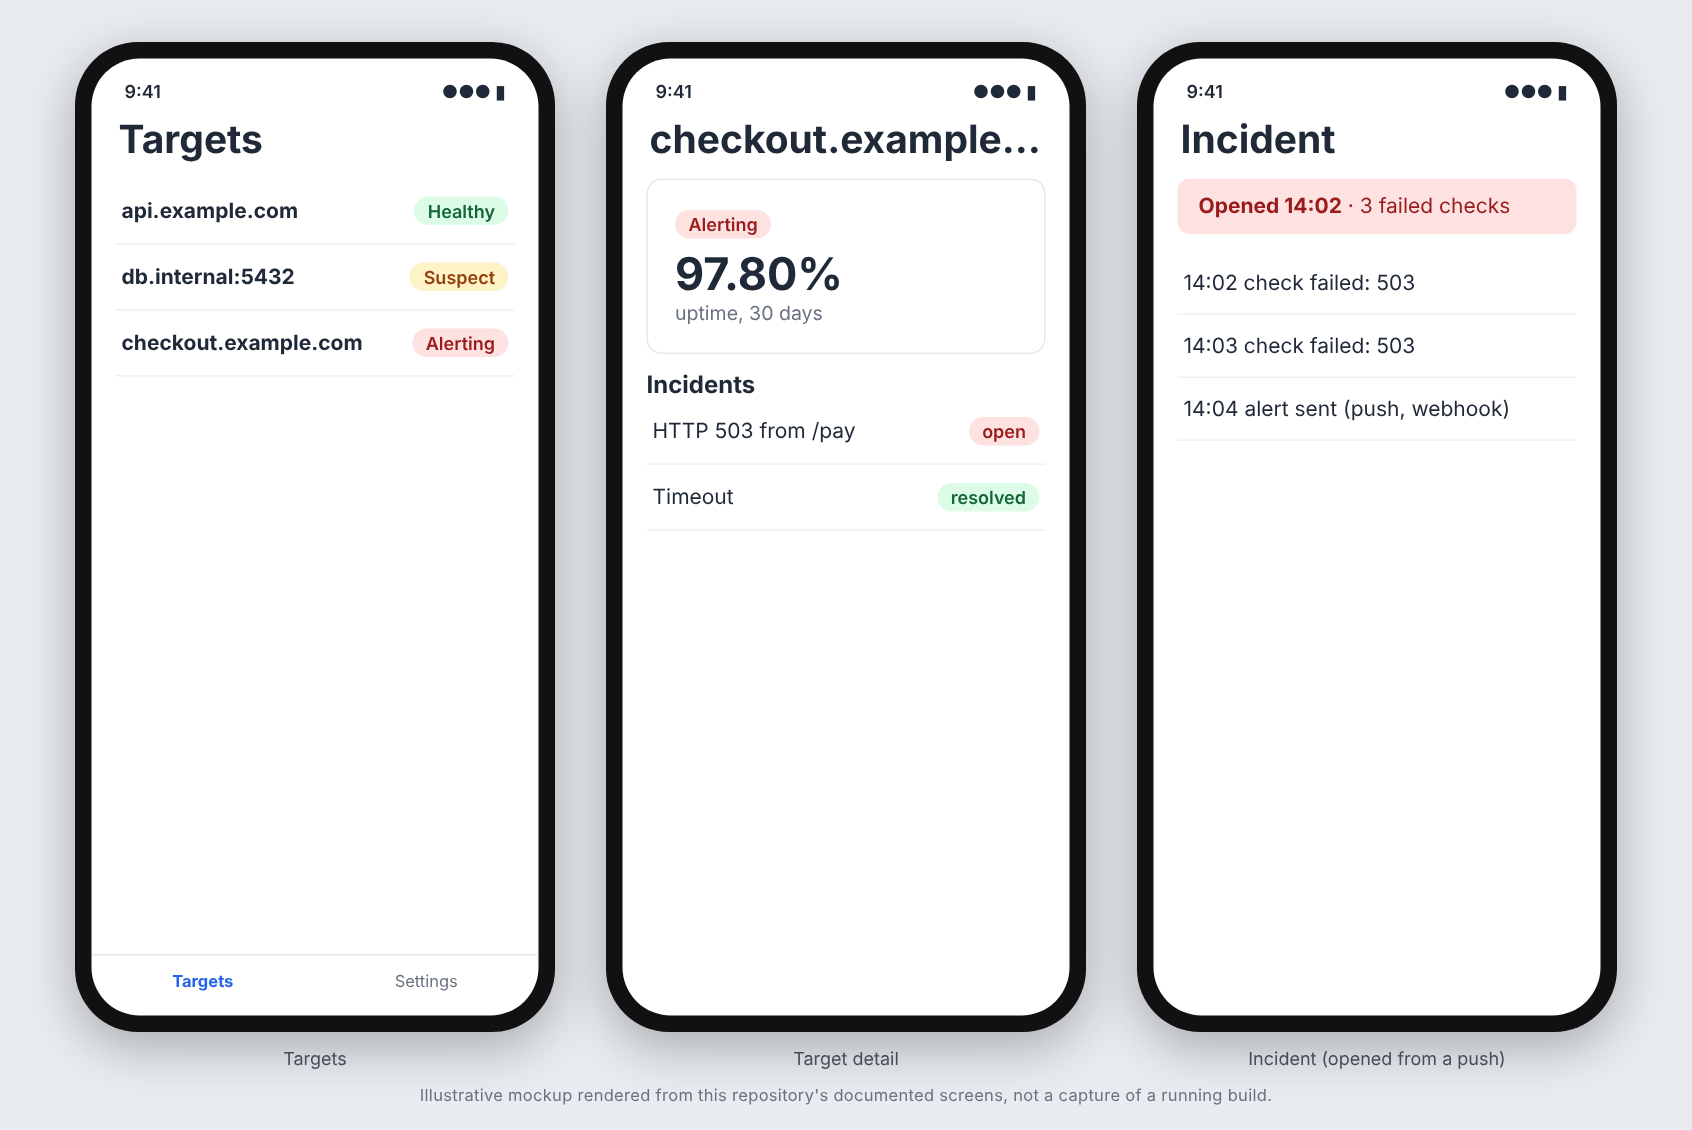
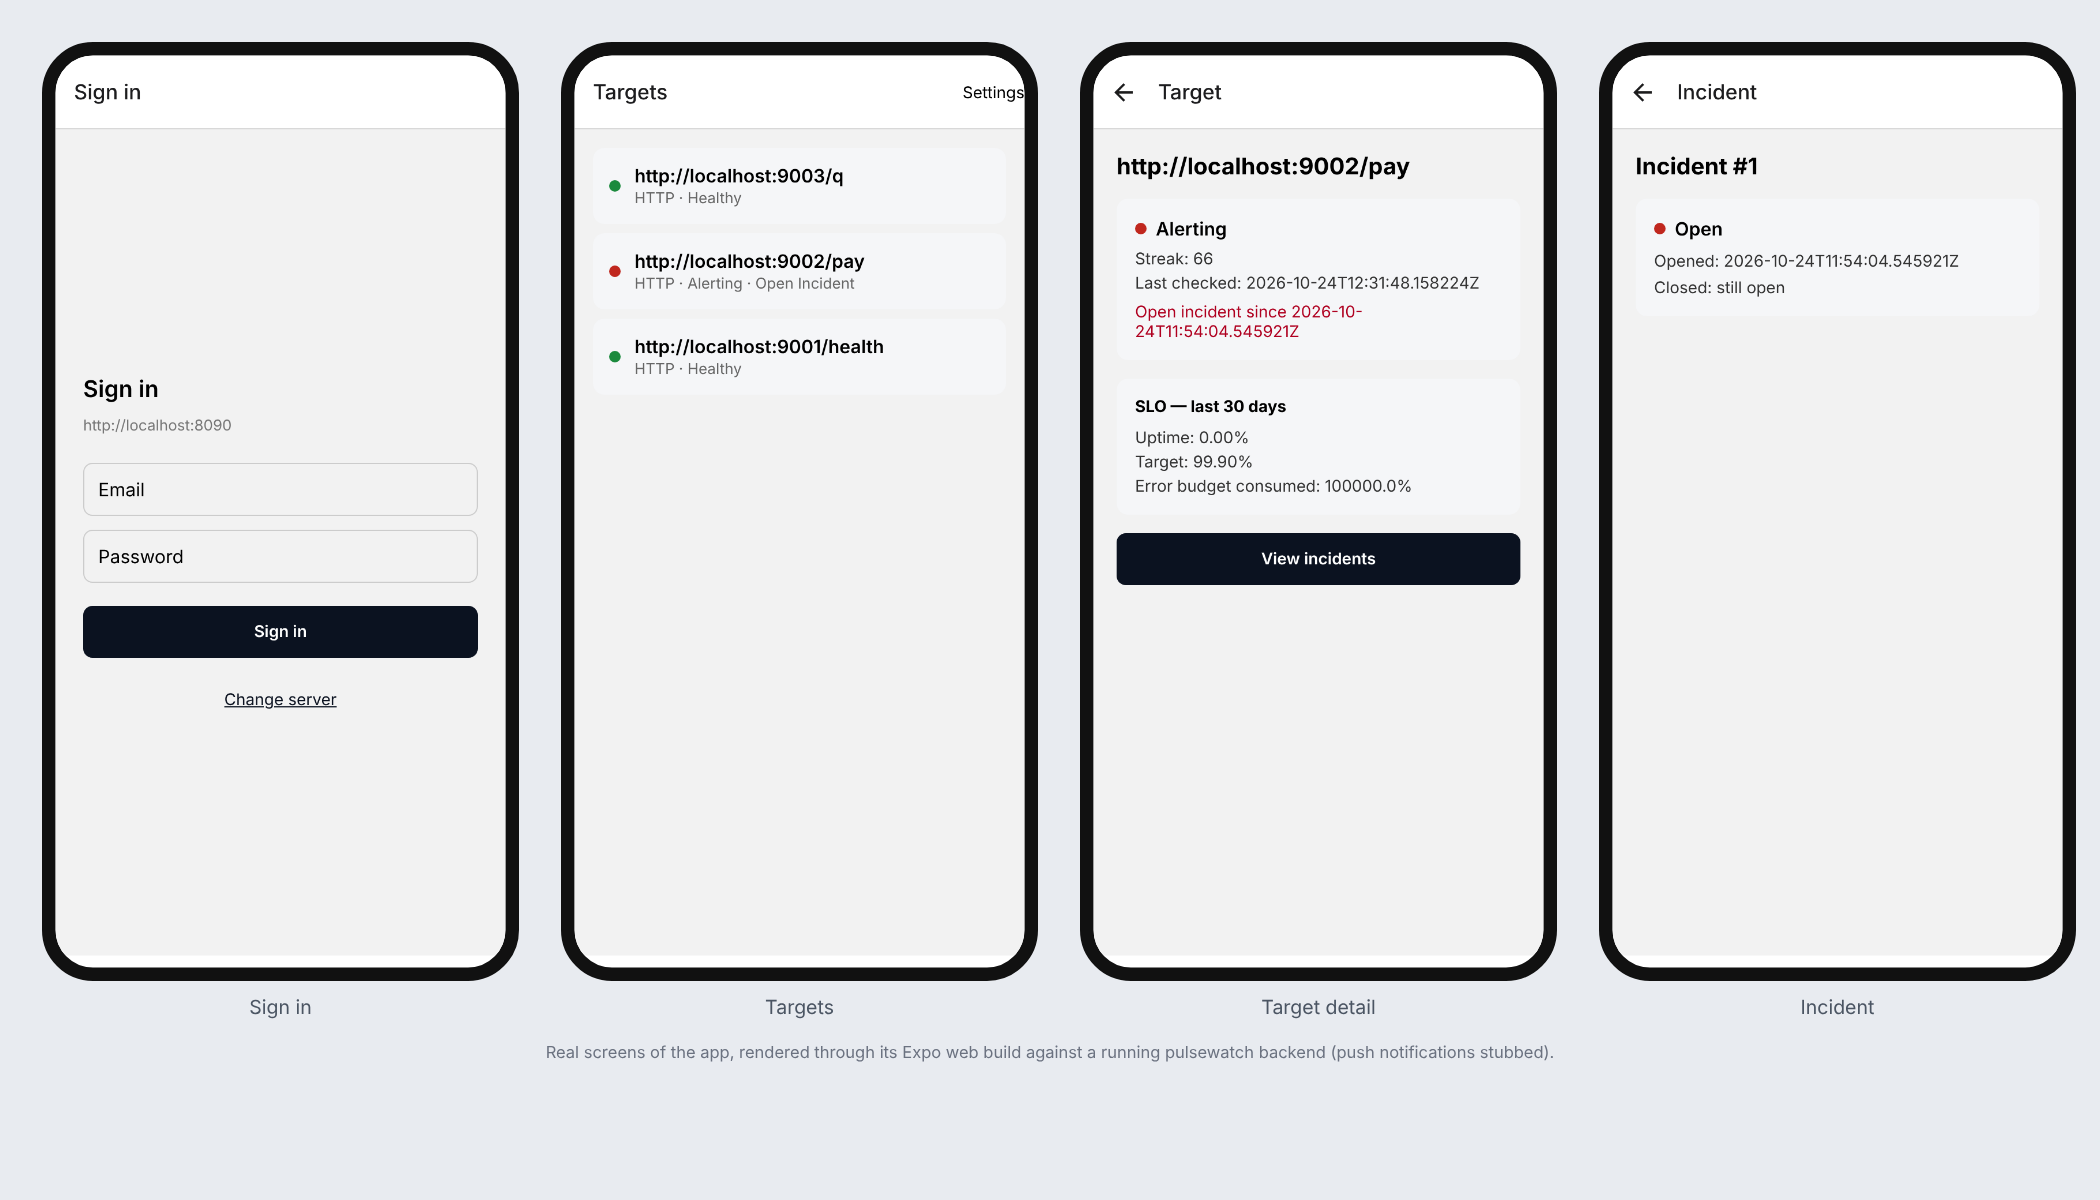
Replace mockups with real screens rendered from the Expo web build
Claude-Session: https://claude.ai/code/session_01MMnAbBEvfYn2oeVzGWoYsN

Changed region(s): [[0.0, 0.031, 1.0, 0.9912], [0.3995, 0.4336, 0.4303, 0.4646]]

diff --git a/README.md b/README.md
@@ -8,9 +8,11 @@ foreground or background — deep-linking straight to that incident.
 
 ## Screenshots
 
-![Targets, target detail, incident detail](docs/screenshots/overview.png)
+![Sign in, targets, target detail and an incident](docs/screenshots/overview.png)
 
-_These images are illustrative mockups rendered from this repository's documented screens and API shapes, not captures of a running build. Regenerate or replace them with real captures once the app is running._
+![Server setup](docs/screenshots/server-setup.png)
+
+_Real screens of this app, not mockups. They were rendered through the Expo web build (`react-native-web`) in Chromium against a running pulsewatch backend (PostgreSQL, Redis, a scheduler checking three local HTTP endpoints, one of them failing so it has an open incident), driven with Playwright. A web render is not a native iOS or Android capture: fonts and chrome differ, and `expo-notifications` has no web implementation, so it was stubbed for the capture and push behaviour is not shown. The "Error budget consumed" figure is just what the backend reported for a target that had only existed for a short time._
 
 ## Stack
 
